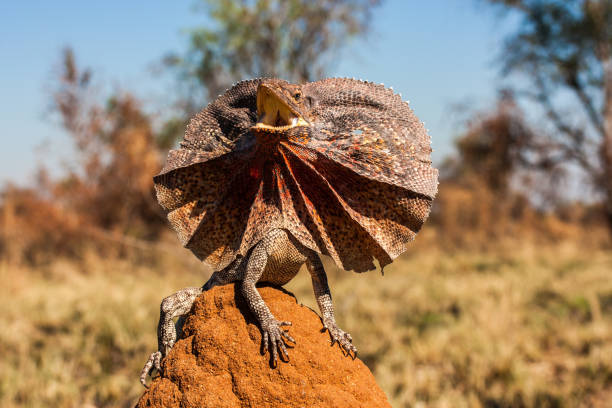
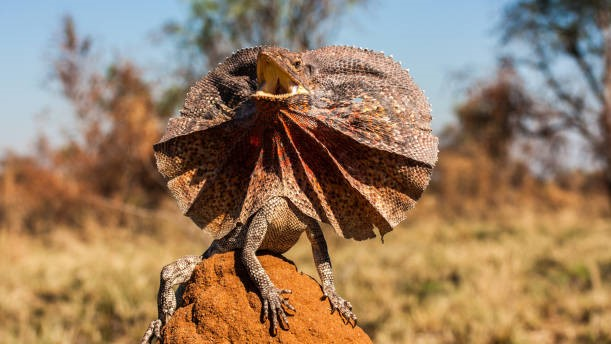
ejerciciocarrousel

diff --git a/Lenguaje de Marcas/Tema 4/Ejercicios/css/style9.css b/Lenguaje de Marcas/Tema 4/Ejercicios/css/style9.css
@@ -1,56 +1,73 @@
 body{
-    background-color: darkgrey;
     display: flex;
     justify-content: center;
     align-items: center;
-    width: 100%;
+    background-image: url("../img/fondo_carrousel.jpg");
+    background-size: cover;
+    background-repeat: no-repeat;
+    background-attachment: fixed;
 }
-div {
-    display: flex;
-    flex-direction: column;
-    width: 80%;
-}
+
 main{
     display: flex;
+}
+.carrousel{
+    display: flex;
+    flex-direction: column;
+    margin-top: 1%;
+    width: 70%;
+    border: 1px rgba(255, 255, 255, 0.6) solid;
+    border-radius: 50pt;
 }
 aside{
     display: flex;
     align-items: center;
-    justify-content: center;
     box-sizing: border-box;
-    background-color: black;
+    background-color: rgba(0, 0, 0, 0.6);
     padding-left:5px;
     padding-right: 5px;
-    flex: 1 1 20%
+    flex: 1 1 10%
 
+}
+aside a{
+    margin-left:5px;
+    margin-right: 5px;
+    
+}
+aside a:hover{
+    border: 1px solid white;
+    border-radius: 50%;
+    background-color: rgba(146, 146, 146, 0.6);
 }
 .izquierda{
     border-top-left-radius: 50pt;
+    
 }
 .derecha{
     border-top-right-radius: 50pt;
 }
-img aside{
-    width: 80%;
-    
-}
+
 .imagen{
     display: flex;
-    flex: 3 3 60%;
-    background-color: black;
-    padding-top: 20pt;
-    padding-bottom: 20pt;
+    flex: 4 4 80%;
+    background-color: rgba(0, 0, 0, 0.6);
+    padding-top: 10pt;
+    padding-bottom: 10pt;
 }
-
+aside img{
+    width: 50%;
+    margin: 15pt;
+    
+}
 .imagen img{
     border-radius: 15pt;
     width: 100%;
 
 }
-footer{
+.piefoto{
     display: flex;
     justify-content: space-between;
-    background-color: black;
+    background-color: rgba(0, 0, 0, 0.6);
     font-size: 40px;
     border-bottom-right-radius: 50pt;
     border-bottom-left-radius: 50pt;
@@ -58,5 +75,5 @@ footer{
     padding-right: 10%;
     padding-top: 1%;
     padding-bottom: 2%;
-    color: darkgrey;
+    color: rgb(235, 235, 235);
 }

diff --git a/Lenguaje de Marcas/Tema 4/Ejercicios/html/ejercicio92.html b/Lenguaje de Marcas/Tema 4/Ejercicios/html/ejercicio92.html
@@ -12,18 +12,18 @@
     <div class=" carrousel">
         <main>        
             <aside class="izquierda">
-                <a href="ejercicio96.html"><img src="../img/flechaizquierda.png" alt="anterior" title="anterior"></a>
+                <a href="ejercicio91.html"><img src="../img/flechaizquierda.png" alt="anterior" title="anterior"></a>
             </aside>
             <div class="imagen">
-                <img src="../img/clamidosauriocarrousel.png" >
+                <img src="../img/clamidosauriocarrousel3.png" >
             </div>
             <aside class="derecha">
-                <a href="ejercicio91.html"><img src="../img/flechaderecha.png" alt="siguiente" title="siguiente"></a>            
+                <a href="ejercicio93.html"><img src="../img/flechaderecha.png" alt="siguiente" title="siguiente"></a>            
             </aside>
         </main>
         <div class="piefoto">
             <span>Pie de foto</span>
-            <span>1</span>
+            <span>3</span>
         </div>
     </div>
 </body>

diff --git a/Lenguaje de Marcas/Tema 4/Ejercicios/html/ejercicio93.html b/Lenguaje de Marcas/Tema 4/Ejercicios/html/ejercicio93.html
@@ -12,18 +12,18 @@
     <div class=" carrousel">
         <main>        
             <aside class="izquierda">
-                <a href="ejercicio96.html"><img src="../img/flechaizquierda.png" alt="anterior" title="anterior"></a>
+                <a href="ejercicio92.html"><img src="../img/flechaizquierda.png" alt="anterior" title="anterior"></a>
             </aside>
             <div class="imagen">
-                <img src="../img/clamidosauriocarrousel.png" >
+                <img src="../img/clamidosauriocarrousel4.png" >
             </div>
             <aside class="derecha">
-                <a href="ejercicio91.html"><img src="../img/flechaderecha.png" alt="siguiente" title="siguiente"></a>            
+                <a href="ejercicio94.html"><img src="../img/flechaderecha.png" alt="siguiente" title="siguiente"></a>            
             </aside>
         </main>
         <div class="piefoto">
             <span>Pie de foto</span>
-            <span>1</span>
+            <span>4</span>
         </div>
     </div>
 </body>

diff --git a/Lenguaje de Marcas/Tema 4/Ejercicios/html/ejercicio94.html b/Lenguaje de Marcas/Tema 4/Ejercicios/html/ejercicio94.html
@@ -12,18 +12,18 @@
     <div class=" carrousel">
         <main>        
             <aside class="izquierda">
-                <a href="ejercicio96.html"><img src="../img/flechaizquierda.png" alt="anterior" title="anterior"></a>
+                <a href="ejercicio93.html"><img src="../img/flechaizquierda.png" alt="anterior" title="anterior"></a>
             </aside>
             <div class="imagen">
-                <img src="../img/clamidosauriocarrousel.png" >
+                <img src="../img/clamidosauriocarrousel5.png" >
             </div>
             <aside class="derecha">
-                <a href="ejercicio91.html"><img src="../img/flechaderecha.png" alt="siguiente" title="siguiente"></a>            
+                <a href="ejercicio95.html"><img src="../img/flechaderecha.png" alt="siguiente" title="siguiente"></a>            
             </aside>
         </main>
         <div class="piefoto">
             <span>Pie de foto</span>
-            <span>1</span>
+            <span>5</span>
         </div>
     </div>
 </body>

diff --git a/Lenguaje de Marcas/Tema 4/Ejercicios/html/ejercicio95.html b/Lenguaje de Marcas/Tema 4/Ejercicios/html/ejercicio95.html
@@ -12,18 +12,18 @@
     <div class=" carrousel">
         <main>        
             <aside class="izquierda">
-                <a href="ejercicio96.html"><img src="../img/flechaizquierda.png" alt="anterior" title="anterior"></a>
+                <a href="ejercicio94.html"><img src="../img/flechaizquierda.png" alt="anterior" title="anterior"></a>
             </aside>
             <div class="imagen">
-                <img src="../img/clamidosauriocarrousel.png" >
+                <img src="../img/clamidosauriocarrousel6.png" >
             </div>
             <aside class="derecha">
-                <a href="ejercicio91.html"><img src="../img/flechaderecha.png" alt="siguiente" title="siguiente"></a>            
+                <a href="ejercicio96.html"><img src="../img/flechaderecha.png" alt="siguiente" title="siguiente"></a>            
             </aside>
         </main>
         <div class="piefoto">
             <span>Pie de foto</span>
-            <span>1</span>
+            <span>6</span>
         </div>
     </div>
 </body>

diff --git a/Lenguaje de Marcas/Tema 4/Ejercicios/html/ejercicio91.html b/Lenguaje de Marcas/Tema 4/Ejercicios/html/ejercicio91.html
@@ -12,18 +12,18 @@
     <div class=" carrousel">
         <main>        
             <aside class="izquierda">
-                <a href="ejercicio96.html"><img src="../img/flechaizquierda.png" alt="anterior" title="anterior"></a>
+                <a href="ejercicio9.html"><img src="../img/flechaizquierda.png" alt="anterior" title="anterior"></a>
             </aside>
             <div class="imagen">
-                <img src="../img/clamidosauriocarrousel.png" >
+                <img src="../img/clamidosauriocarrousel2.png" >
             </div>
             <aside class="derecha">
-                <a href="ejercicio91.html"><img src="../img/flechaderecha.png" alt="siguiente" title="siguiente"></a>            
+                <a href="ejercicio92.html"><img src="../img/flechaderecha.png" alt="siguiente" title="siguiente"></a>            
             </aside>
         </main>
         <div class="piefoto">
             <span>Pie de foto</span>
-            <span>1</span>
+            <span>2</span>
         </div>
     </div>
 </body>

diff --git a/Lenguaje de Marcas/Tema 4/Ejercicios/html/ejercicio96.html b/Lenguaje de Marcas/Tema 4/Ejercicios/html/ejercicio96.html
@@ -12,18 +12,18 @@
     <div class=" carrousel">
         <main>        
             <aside class="izquierda">
-                <a href="ejercicio96.html"><img src="../img/flechaizquierda.png" alt="anterior" title="anterior"></a>
+                <a href="ejercicio95.html"><img src="../img/flechaizquierda.png" alt="anterior" title="anterior"></a>
             </aside>
             <div class="imagen">
-                <img src="../img/clamidosauriocarrousel.png" >
+                <img src="../img/clamidosauriocarrousel7.png" >
             </div>
             <aside class="derecha">
-                <a href="ejercicio91.html"><img src="../img/flechaderecha.png" alt="siguiente" title="siguiente"></a>            
+                <a href="ejercicio9.html"><img src="../img/flechaderecha.png" alt="siguiente" title="siguiente"></a>            
             </aside>
         </main>
         <div class="piefoto">
             <span>Pie de foto</span>
-            <span>1</span>
+            <span>7</span>
         </div>
     </div>
 </body>

diff --git a/Programación/ejercicioEntrenamiento/src/ejercicio/Operaciones.java b/Programación/ejercicioEntrenamiento/src/ejercicio/Operaciones.java
@@ -8,32 +8,17 @@ public class Operaciones {
 	
 	public Fraccion multiplicar (Fraccion num1, Fraccion num2) {
 		
-		int den, num;
-		Fraccion mult;
-		
-		num=num1.getNumerador()*num2.getNumerador();
-		den=num1.getDenominador()*num2.getDenominador();	
-		mult = new Fraccion (num, den);
-		return mult;
-		
+		return new Fraccion (num1.getNumerador()*num2.getNumerador(), num1.getDenominador()*num2.getDenominador());
 	}
+	
 	public Fraccion cambiarSigno (int num, int den) {
 		
-		Fraccion inversa;	
-		num= num * (-1);
-		inversa = new Fraccion (num, den);
-		return inversa;
-		
+		return new Fraccion (num * (-1), den);
 	}
+	
 	public Fraccion dividir (Fraccion num1, Fraccion num2) {
-		
-		int den, num;
-		Fraccion div;
-		num=num1.getDenominador()*num2.getNumerador();
-		den=num1.getNumerador()*num2.getDenominador();	
-		div = new Fraccion (num, den);
-		return div;
-		
+		 
+		return new Fraccion (num1.getDenominador()*num2.getNumerador(), num1.getNumerador()*num2.getDenominador());
 	}
 	public Fraccion sumar (Fraccion num1, Fraccion num2) {
 		
